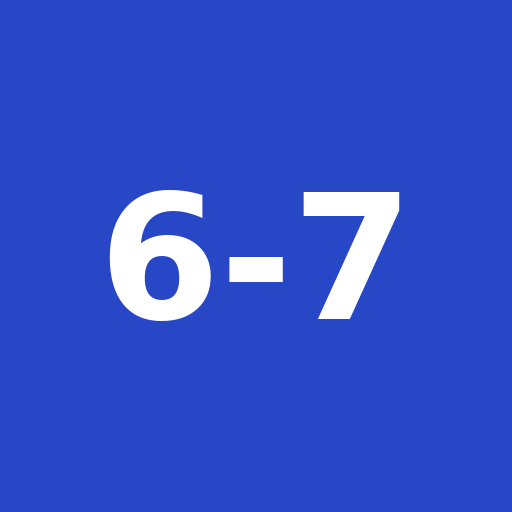
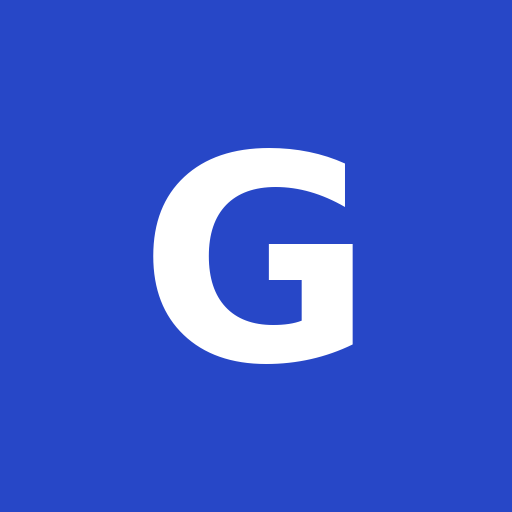
Rename app to G, stop background scrolling under sheets
Claude-Session: https://claude.ai/code/session_012yubPVUBrV6byChBeyunLb

Changed region(s): [[0.1875, 0.2812, 0.7812, 0.7188]]

diff --git a/index.html b/index.html
@@ -3,10 +3,10 @@
 <head>
 <meta charset="utf-8">
 <meta name="viewport" content="width=device-width,initial-scale=1,viewport-fit=cover">
-<title>6-7</title>
+<title>G</title>
 <meta name="apple-mobile-web-app-capable" content="yes">
 <meta name="mobile-web-app-capable" content="yes">
-<meta name="apple-mobile-web-app-title" content="6-7">
+<meta name="apple-mobile-web-app-title" content="G">
 <meta name="apple-mobile-web-app-status-bar-style" content="default">
 <meta name="theme-color" content="#EEF1F4" media="(prefers-color-scheme: light)">
 <meta name="theme-color" content="#0F141A" media="(prefers-color-scheme: dark)">
@@ -88,10 +88,11 @@ header{display:flex;align-items:center;gap:12px}
 .empty b{display:block;color:var(--ink);margin-bottom:4px}
 
 /* sheets */
-.veil{position:fixed;inset:0;background:var(--veil);display:flex;align-items:flex-end;justify-content:center;z-index:20}
+.veil{position:fixed;inset:0;overscroll-behavior:contain;touch-action:none;background:var(--veil);display:flex;align-items:flex-end;justify-content:center;z-index:20}
 .sheet{background:var(--surface);width:100%;max-width:480px;border-radius:22px 22px 0 0;
   padding:18px max(16px,env(safe-area-inset-right,0px)) calc(18px + env(safe-area-inset-bottom,0px)) max(16px,env(safe-area-inset-left,0px));
-  display:flex;flex-direction:column;gap:14px;max-height:92%;overflow-y:auto;-webkit-overflow-scrolling:touch}
+  display:flex;flex-direction:column;gap:14px;max-height:92%;overflow-y:auto;-webkit-overflow-scrolling:touch;overscroll-behavior:contain;touch-action:pan-y}
+body.locked{position:fixed;left:0;right:0;overflow:hidden}
 @media (prefers-reduced-motion:no-preference){.sheet{animation:up .22s ease-out}@keyframes up{from{transform:translateY(40px);opacity:.6}}}
 .sheet h2{margin:0;font-size:18px;font-weight:700}
 .sheet p{margin:0}
@@ -134,7 +135,7 @@ header{display:flex;align-items:center;gap:12px}
 <body>
 <div class="app">
   <header>
-    <div class="brand">6<span>-</span>7</div>
+    <div class="brand">G<span>.</span></div>
     <div class="bal"><small>Баланс</small><b class="num" id="balance">0</b></div>
     <button class="gear" id="gear" aria-label="Настройки и категории">
       <svg viewBox="0 0 24 24" fill="none" stroke-width="2" stroke-linecap="round" stroke-linejoin="round"><path d="M4 6h10M18 6h2M4 12h4M12 12h8M4 18h12M20 18h0"/><circle cx="16" cy="6" r="2"/><circle cx="10" cy="12" r="2"/><circle cx="18" cy="18" r="2"/></svg>
@@ -287,8 +288,13 @@ function render(){
 }
 
 /* ===== sheet plumbing ===== */
-function open(build){const sh=$('sheet');sh.innerHTML='';build(sh);$('veil').hidden=false;sh.scrollTop=0}
-function close(){$('veil').hidden=true;$('sheet').innerHTML=''}
+let lockY=0;
+function lock(){if(document.body.classList.contains('locked'))return;lockY=window.scrollY;document.body.style.top=-lockY+'px';document.body.classList.add('locked')}
+function unlock(){if(!document.body.classList.contains('locked'))return;document.body.classList.remove('locked');document.body.style.top='';window.scrollTo(0,lockY)}
+function open(build){const sh=$('sheet');sh.innerHTML='';build(sh);lock();$('veil').hidden=false;sh.scrollTop=0}
+function close(){$('veil').hidden=true;$('sheet').innerHTML='';unlock()}
+// iOS: swipes on the dimmed area must not scroll the page underneath
+$('veil').addEventListener('touchmove',e=>{if(!$('sheet').contains(e.target))e.preventDefault()},{passive:false});
 $('veil').addEventListener('click',e=>{if(e.target===$('veil'))close()});
 document.addEventListener('keydown',e=>{if(e.key==='Escape'&&!$('veil').hidden)close()});
 
@@ -327,7 +333,7 @@ function entry(t){
       if(save()){close();render()}
     };
     draw();
-    if(!d.id)setTimeout(()=>$('amt').focus(),60);
+    if(!d.id)setTimeout(()=>{const el=$('amt');if(el)el.focus()},60);
   });
 }
 
@@ -389,7 +395,7 @@ function editCat(type,id){
       save();render();settings();toast(ex?'Категория сохранена':'Категория добавлена');
     };
     if(ex)$('del').onclick=()=>removeCat(type,id);
-    if(!ex)setTimeout(()=>$('cn').focus(),60);
+    if(!ex)setTimeout(()=>{const el=$('cn');if(el)el.focus()},60);
   });
 }
 
@@ -425,18 +431,18 @@ function plural(n,a,b,c){const m=n%10,h=n%100;return m===1&&h!==11?a:m>=2&&m<=4&
 /* ===== backup ===== */
 async function exportData(){
   const json=JSON.stringify(S,null,1);
-  const name='6-7-копия-'+iso(new Date())+'.json';
+  const name='G-копия-'+iso(new Date())+'.json';
   const file=new File([json],name,{type:'application/json'});
   try{
-    if(navigator.canShare&&navigator.canShare({files:[file]})){await navigator.share({files:[file],title:'Копия 6-7'});return}
+    if(navigator.canShare&&navigator.canShare({files:[file]})){await navigator.share({files:[file],title:'Копия G'});return}
   }catch(e){if(e&&e.name==='AbortError')return}
   const a=document.createElement('a');a.href=URL.createObjectURL(file);a.download=name;document.body.append(a);a.click();
   setTimeout(()=>{URL.revokeObjectURL(a.href);a.remove()},1000);
 }
 $('file').onchange=async e=>{
   const f=e.target.files[0];if(!f)return;
-  let d;try{d=JSON.parse(await f.text())}catch(_){toast('Это не файл копии 6-7');return}
-  if(!valid(d)){toast('Файл повреждён или это не копия 6-7');return}
+  let d;try{d=JSON.parse(await f.text())}catch(_){toast('Это не файл копии G');return}
+  if(!valid(d)){toast('Файл повреждён или это не копия G');return}
   open(sh=>{
     sh.innerHTML=`<h2>Восстановить из копии?</h2>
       <p>Сейчас в приложении ${S.tx.length} ${plural(S.tx.length,'запись','записи','записей')}. В копии — ${d.tx.length}. Текущие данные будут заменены данными из копии.</p>

diff --git a/sw.js b/sw.js
@@ -1,6 +1,6 @@
 // Офлайн-режим: файлы приложения кэшируются при первом открытии.
 // При обновлении приложения поменяйте VERSION, чтобы телефон подхватил новые файлы.
-const VERSION = '6-7-v1';
+const VERSION = 'g-v2';
 const FILES = ['./', './index.html', './manifest.webmanifest', './icon-180.png', './icon-192.png', './icon-512.png'];
 
 self.addEventListener('install', e => {
